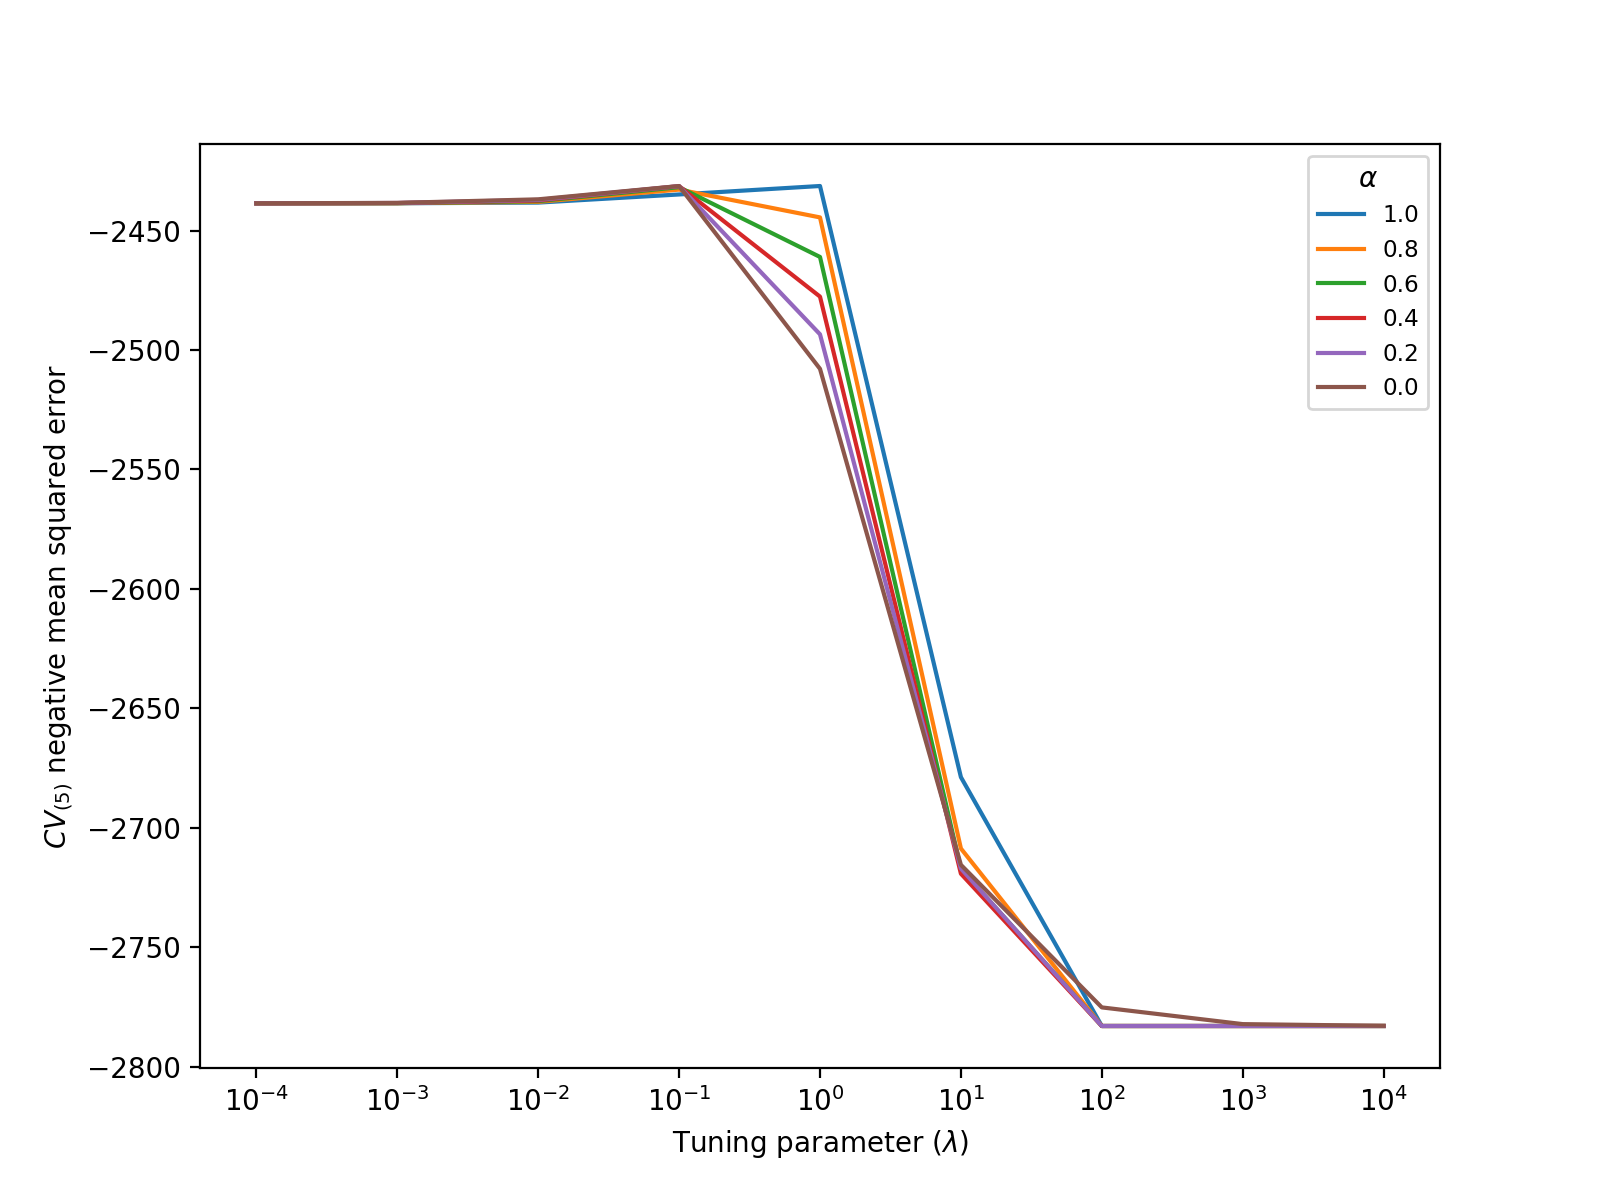
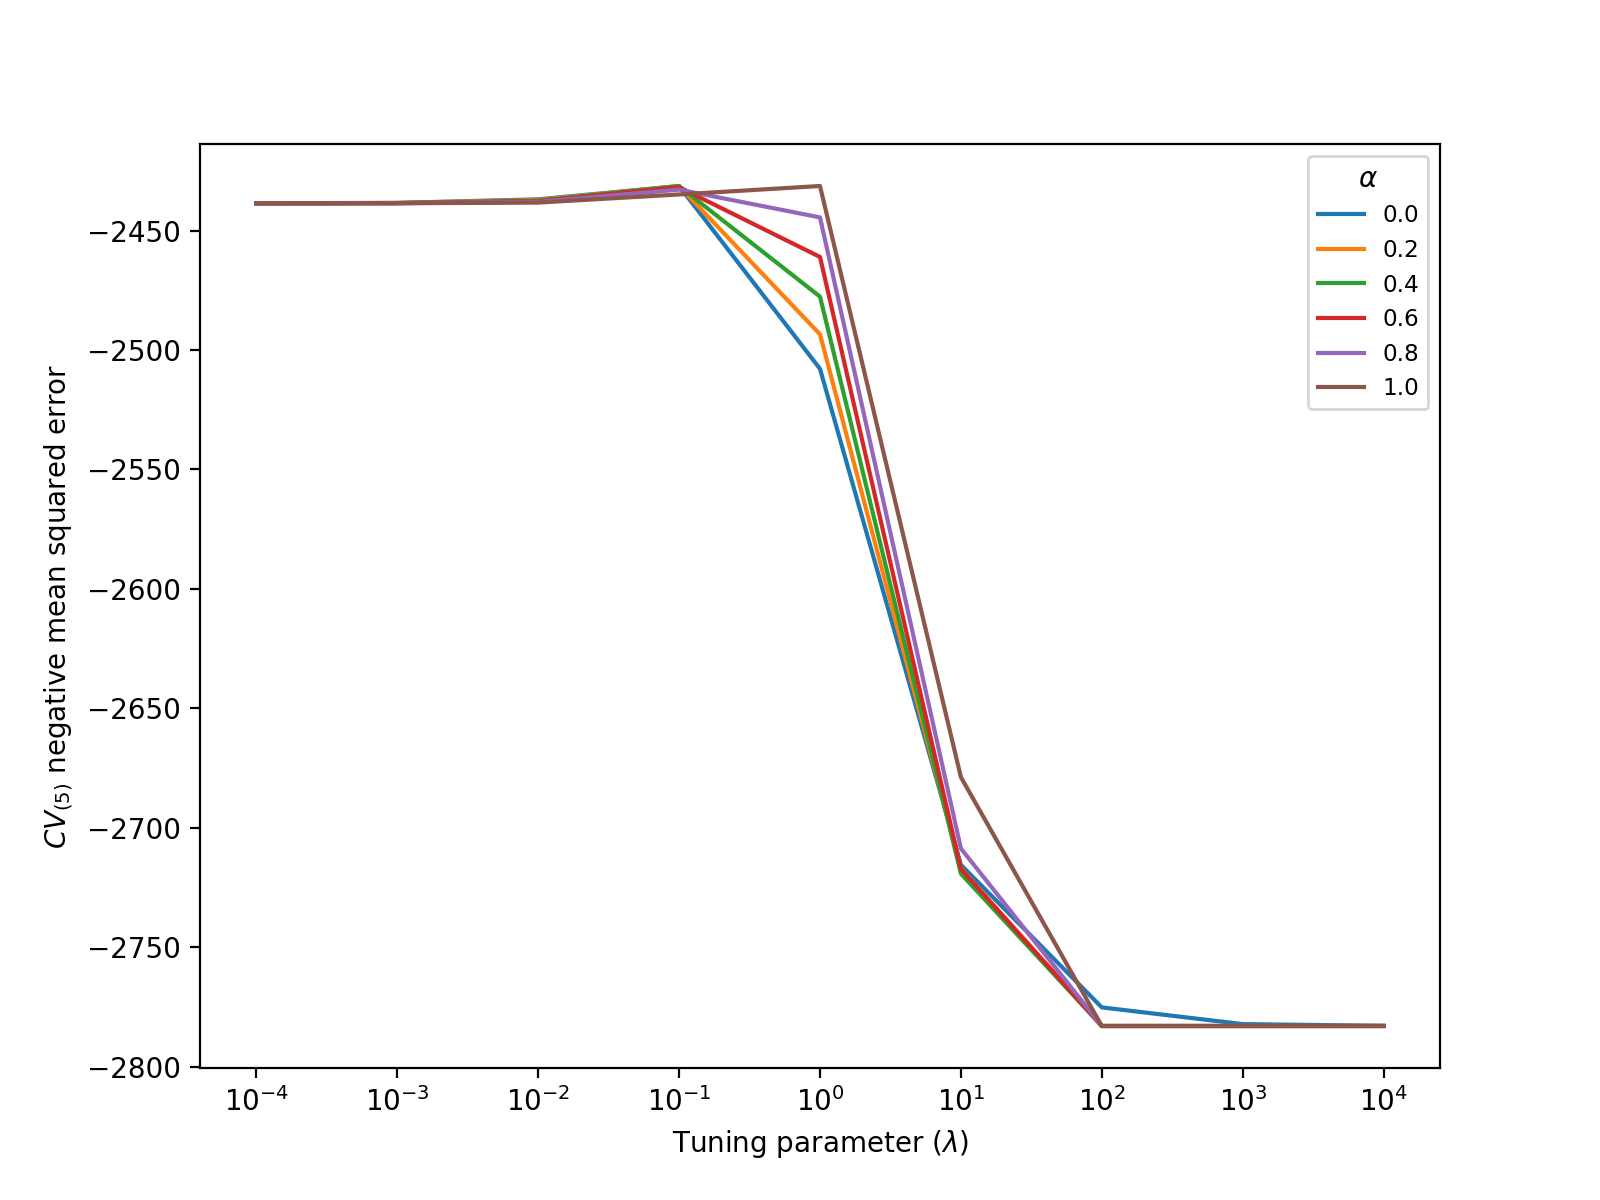
Almost done taming this beast

Changed region(s): [[0.2812, 0.1542, 0.8125, 0.8633]]

diff --git a/regression.py b/regression.py
@@ -25,7 +25,7 @@ file_path = os.path.dirname(os.path.realpath(__file__))
 
 # --- all tuning parameters ---
 lambdas = np.logspace(-4, 4, 9)  # from 1e-4 to 1e4, and with nine total samples
-alphas = np.linspace(1, 0, 6)  # from 1 to 0, now with six evenly spaced samples
+alphas = np.linspace(0, 1, 6)  # from 0 to 1, now with six evenly spaced samples
 
 
 def preprocess_data(filename: str, response: str) -> tuple:
